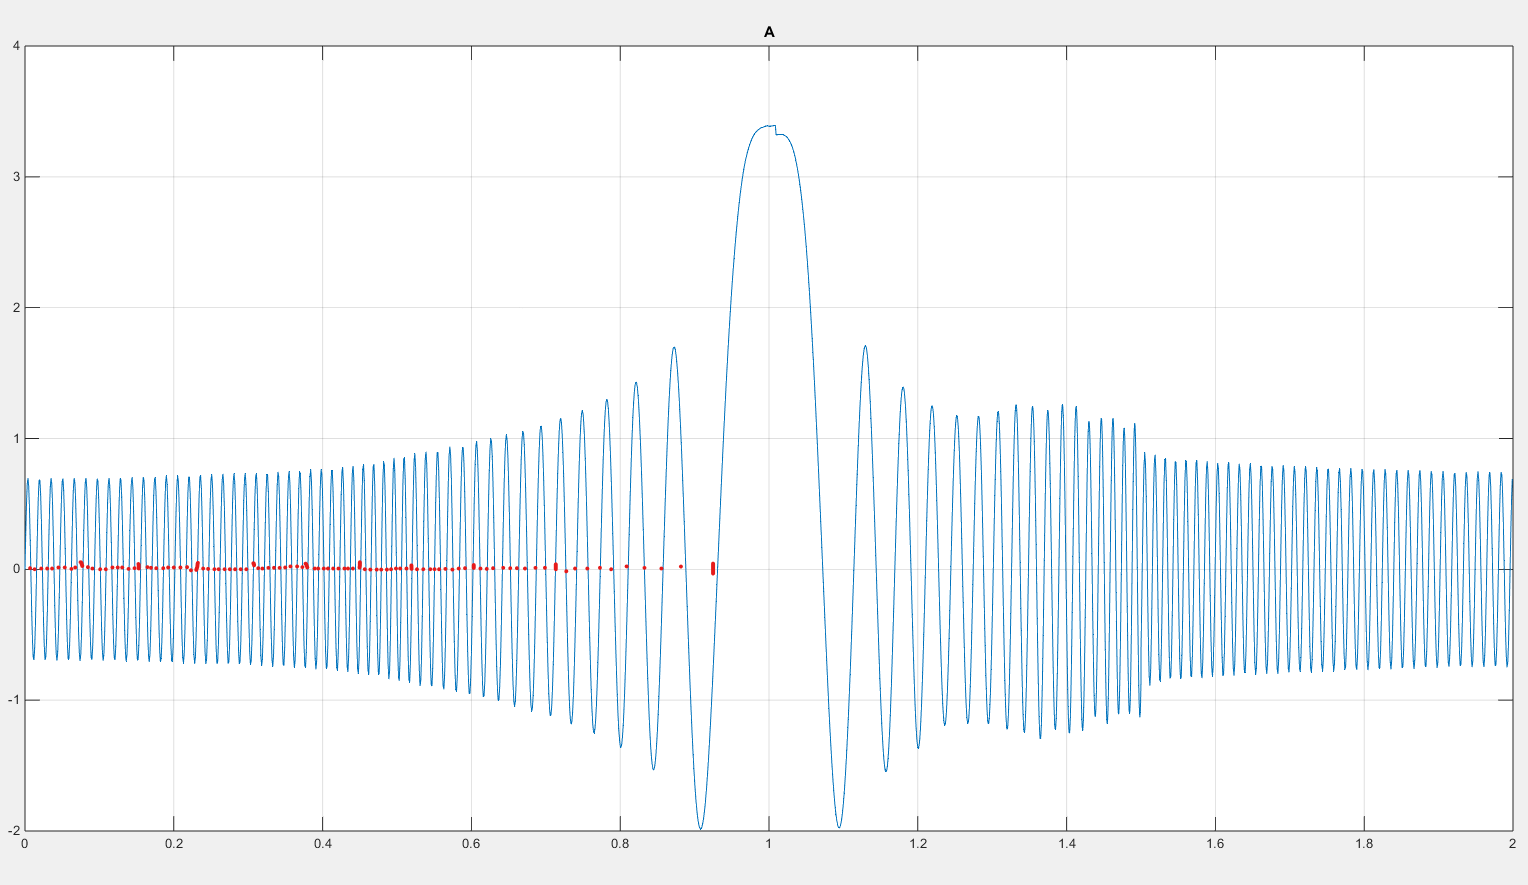
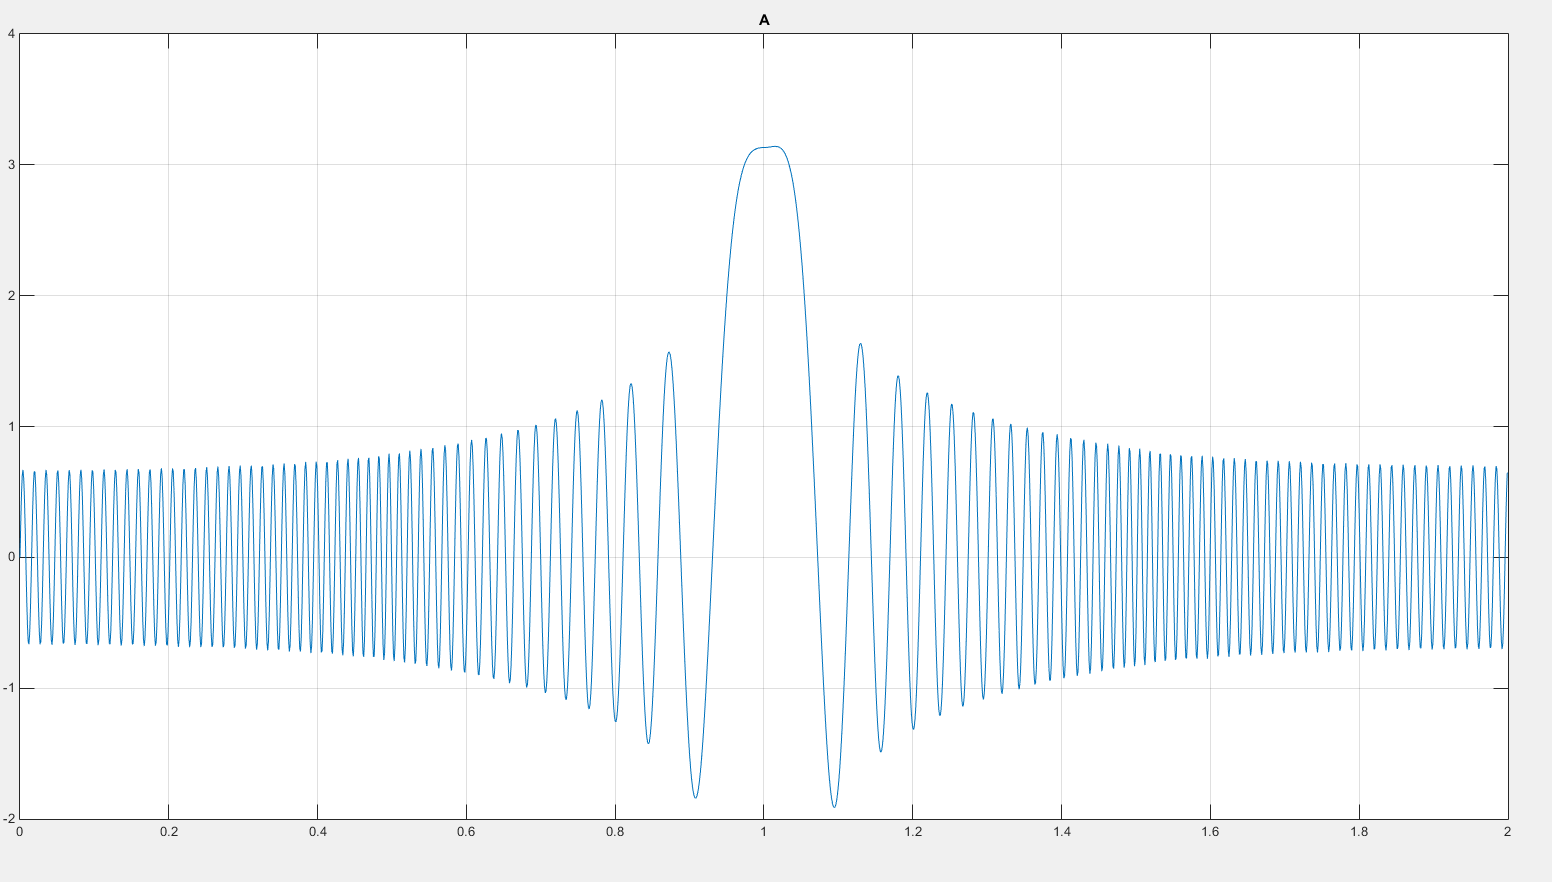
т

diff --git a/diff_A_1_L.m b/diff_A_1_L.m
@@ -1,4 +1,4 @@
-function diff_A = diff_A_1_L( x,  w, k, o, t, th,  H, fi)
+function diff_A = diff_A_1_L( x,  w, k, o, t,   H, fi)
     v =(exp(-4/abs(4*w^2*x^4 + o/k^2 - (t*(2*x^2 - 1))/k^2))*((abs(4*w^2*x^4 + o/k^2 - (t*(2*x^2 - 1))/k^2)/4)^(1/2) - 1) + 1)^(1/2)
     th= deval(H, x)
     y= deval(fi, x)

diff --git a/PART_1.m b/PART_1.m
@@ -1,16 +1,16 @@
-delta_o=300
-delta_t =300
+delta_o=10000
+delta_t =5000
 e =0.00001
 
 i1=1
 i2=0
-i3=1
-w2=1
-k2=0.9
+i3=0
+w2=1000
+k2=0.5
 w=sqrt(w2)
 k=sqrt(k2)
-m=9
-n=10
+m=100
+n=200
 
 
 
